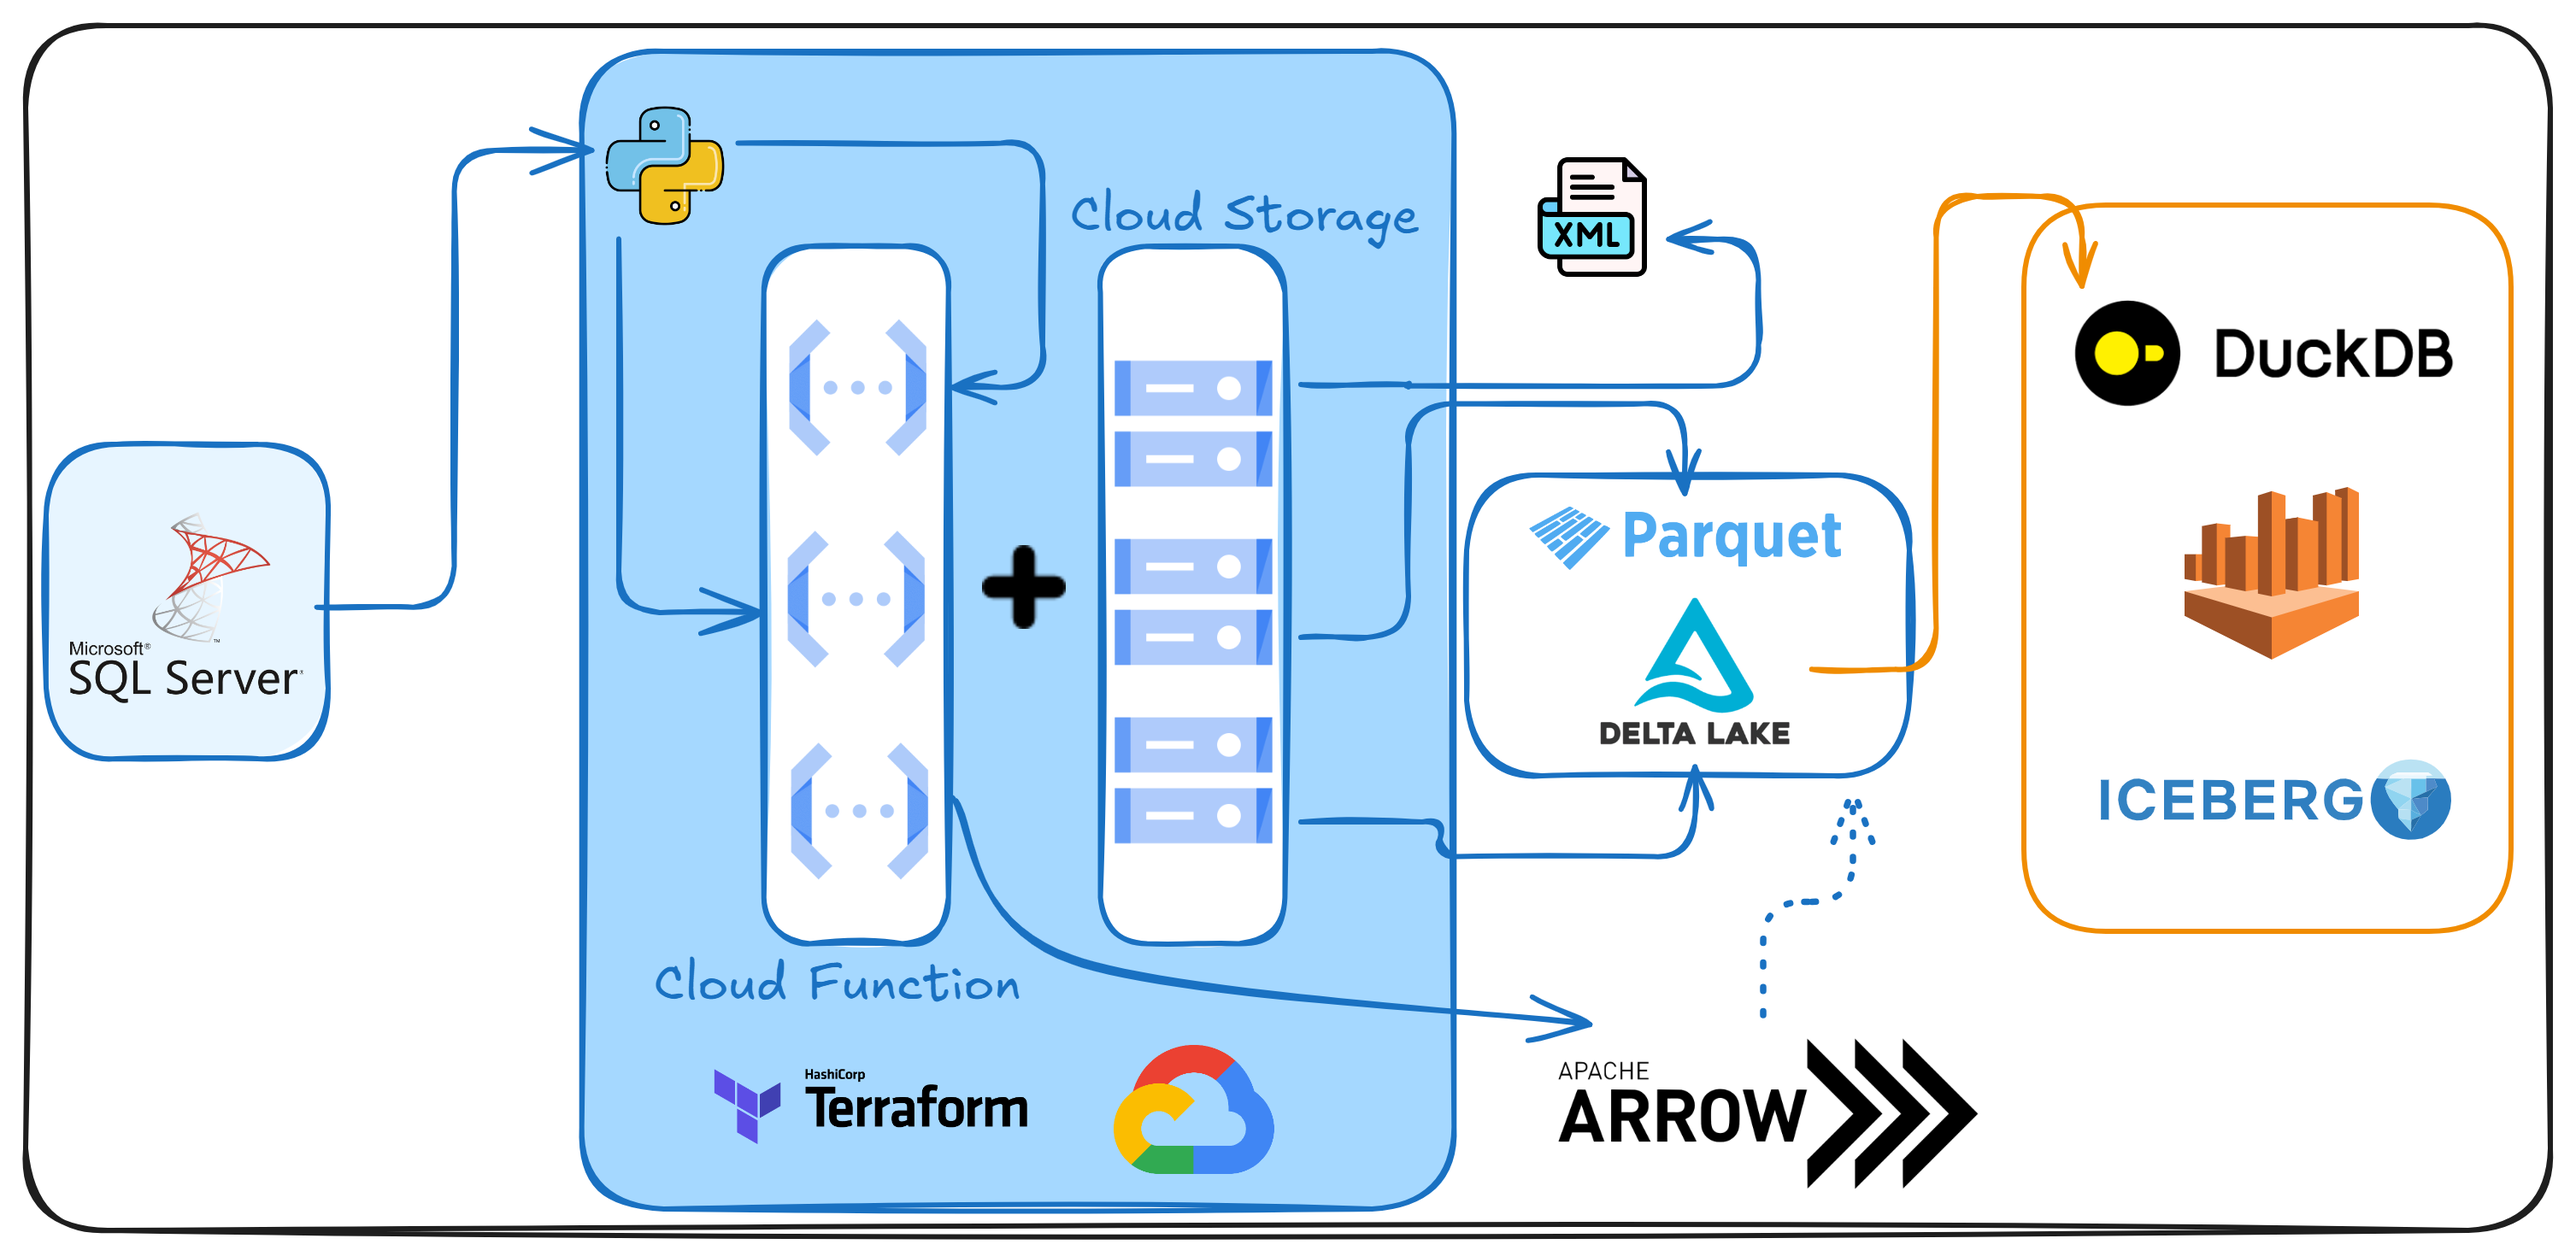
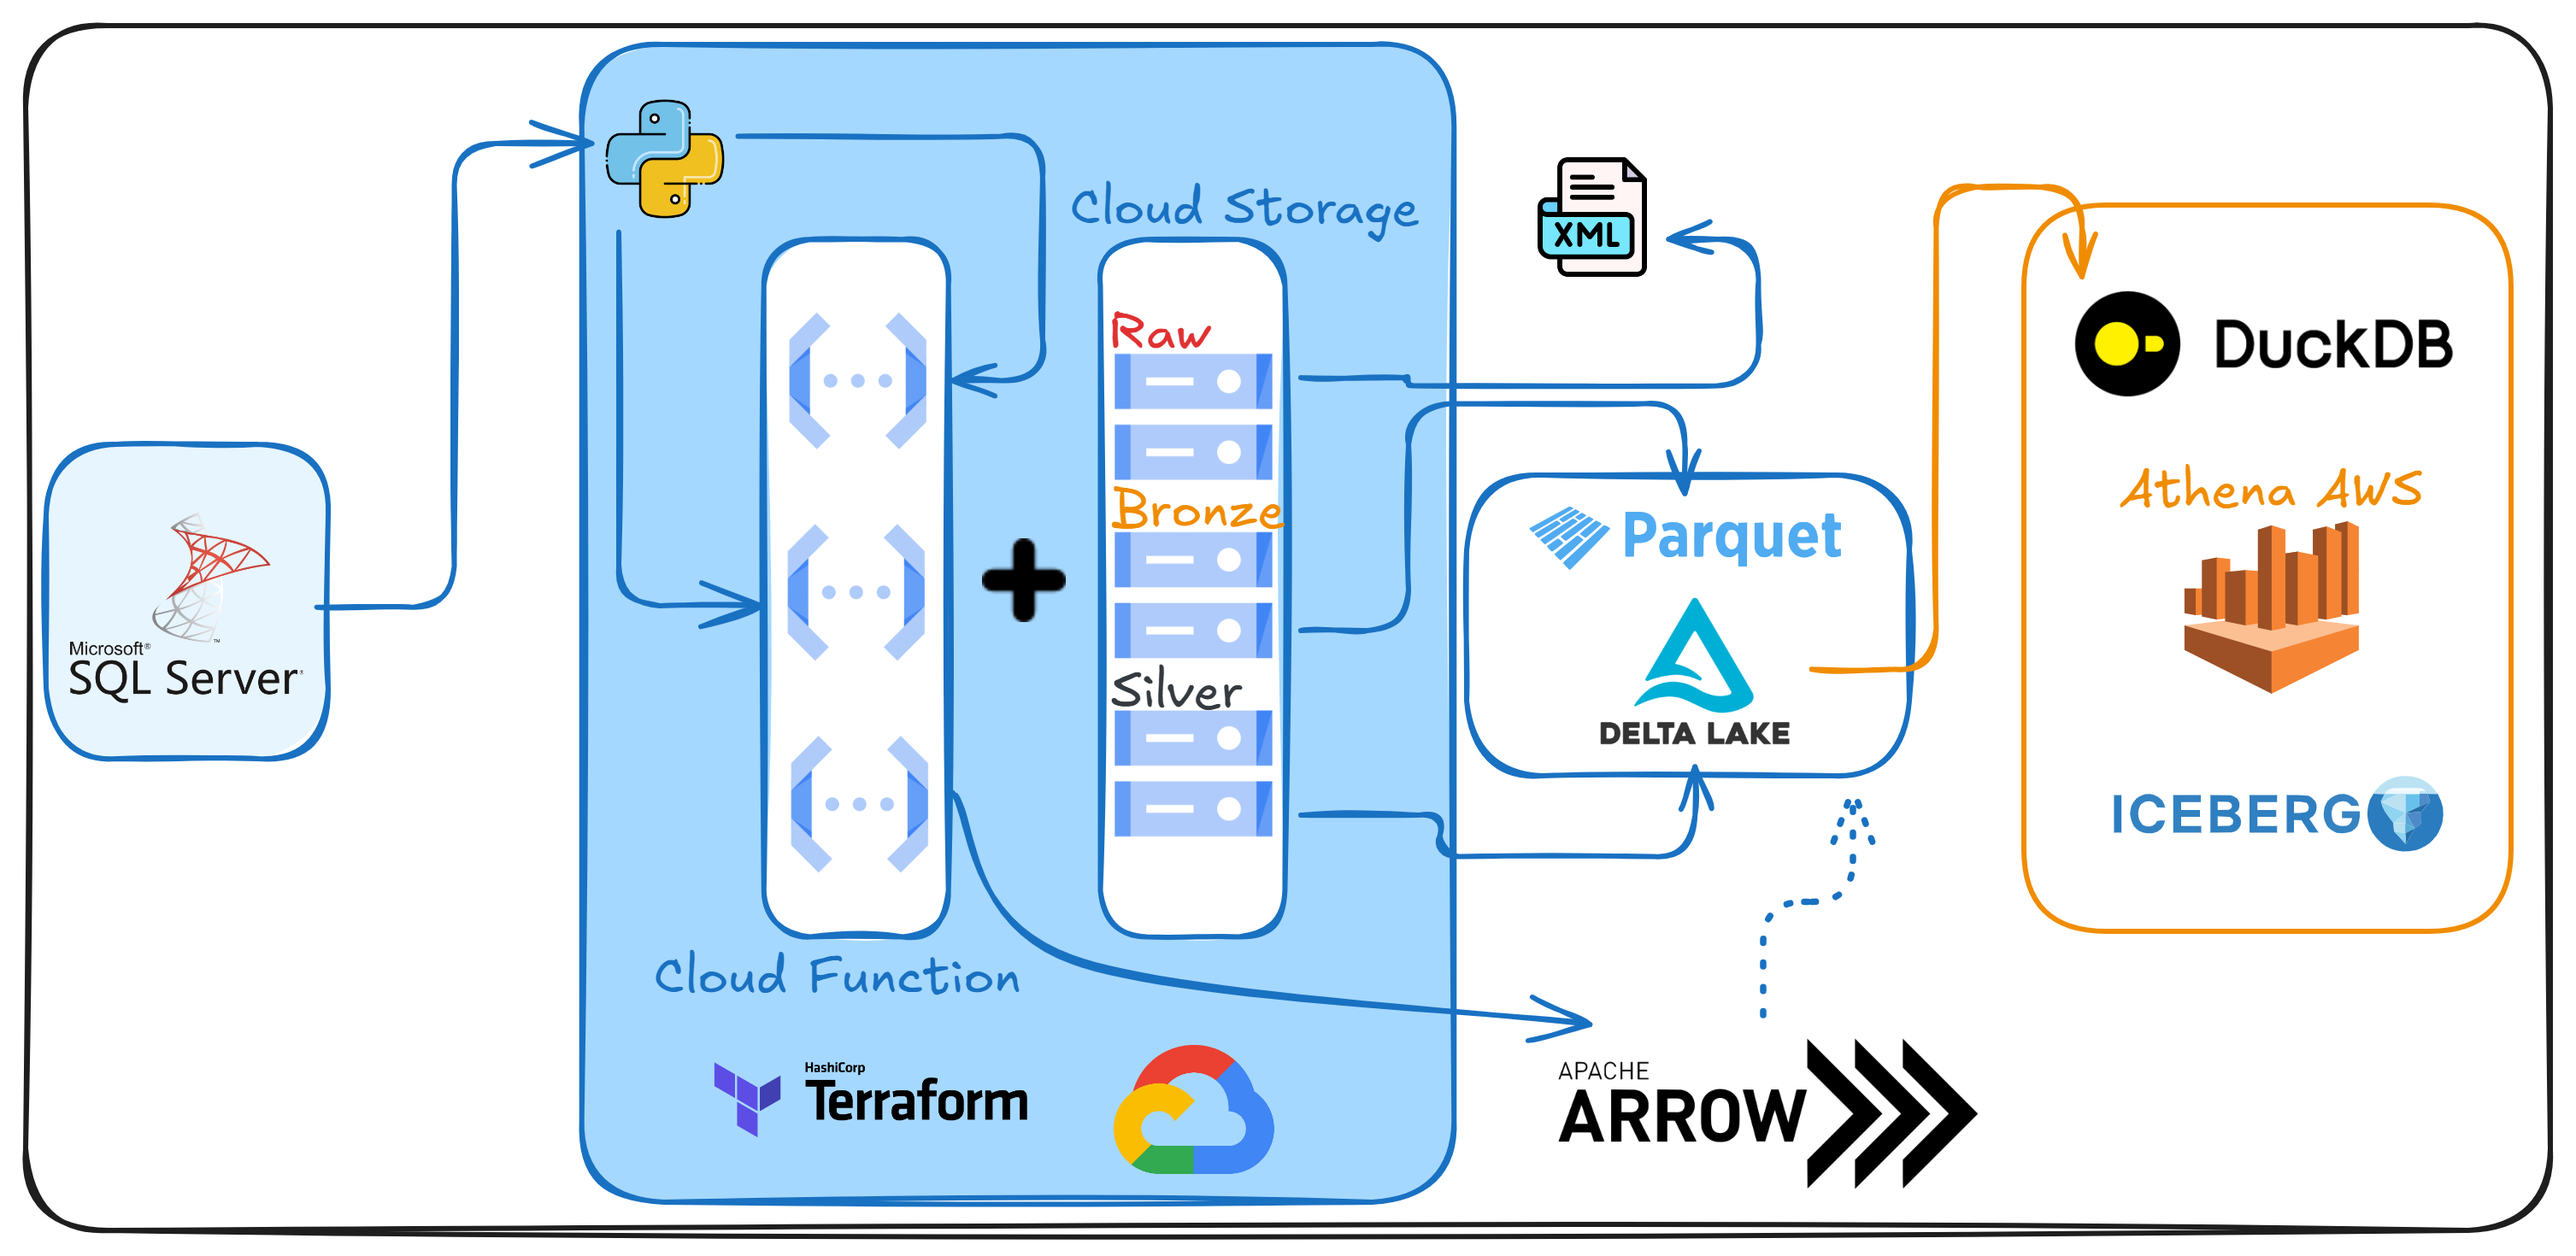
doc export

diff --git a/README.md b/README.md
@@ -1,32 +1,32 @@
 # Projeto de Exportação e Transformação de Dados de Nota Fiscal
 
-Este projeto automatiza o processo de exportação e transformação de dados de XML de notas fiscais para análise no AWS Athena. Toda a infraestrutura é provisionada com **Terraform**, e o pipeline de dados é implementado em **Python** utilizando as bibliotecas `pyodbc`, `deltalake`, `pyarrow`, `duckdb`, e uma biblioteca própria chamada `athena-mvsh`.
+Este projeto automatiza o processo de exportação e transformação de dados de XML de notas fiscais para análise no AWS Athena. Toda a infraestrutura do Google Cloud Platform é provisionada com **Terraform**, e o pipeline de dados é implementado em **Python** utilizando as bibliotecas `pyodbc`, `deltalake`, `pandas`, `pyarrow`, `duckdb`, e uma biblioteca própria chamada `athena-mvsh`.
 
-![Arquitetura do projeto que será construído](img/cloud.png)
+![Arquitetura do projeto](img/cloud.png)
 
 ## Arquitetura do Projeto
 
 1. **Camada Raw (GCS)**
    - **Objetivo**: Receber os arquivos XML de notas fiscais.
-   - **Processo**: Uma Google Cloud Function em Python é acionada quando um novo XML é enviado, carregando-o para um bucket GCS na camada raw e mantendo a estrutura original dos dados.
+   - **Processo**: Um script Python extrai os dados xml de um banco `SQL SERVER`, carregando-o para um bucket GCS na camada raw e mantendo a estrutura original dos dados.
 
 2. **Camada Bronze (GCS)**
    - **Objetivo**: Converter o XML em formato Parquet para otimizar leitura e armazenamento.
-   - **Processo**: Outra Google Cloud Function lê os arquivos XML da camada raw, extrai informações relevantes e converte para Parquet. O arquivo Parquet é então salvo na camada bronze.
+   - **Processo**: Uma Google Cloud Function lê os arquivos XML da camada raw, extrai informações relevantes e converte para Parquet. O arquivo Parquet é então salvo na camada bronze.
 
 3. **Camada Silver (Delta Lake no GCS)**
    - **Objetivo**: Estruturar os dados no formato Delta Lake para histórico e controle de versões.
-   - **Processo**: Uma terceira Google Cloud Function lê os arquivos Parquet da camada bronze e os escreve em um Delta Lake, na camada silver, permitindo manipulação de dados robusta.
+   - **Processo**: Uma segunda Google Cloud Function lê os arquivos Parquet da camada bronze e os escreve em um Delta Lake, na camada silver, permitindo manipulação de dados robusta.
 
 4. **Exportação para Athena (AWS)**
    - **Objetivo**: Disponibilizar os dados para consulta no AWS Athena em uma tabela Iceberg.
-   - **Processo**: Usando `pyarrow` e `duckdb`, o Delta Lake da camada silver é convertido para o formato compatível com Iceberg e transferido para o Athena, onde pode ser consultado diretamente. A biblioteca `athena-mvsh` simplifica as operações de consulta e manipulação no Athena.
+   - **Processo**: Usando `pyarrow` e `duckdb`, o Delta Lake da camada silver, também através de uma Google Cloud Function é convertido para o formato compatível com Iceberg e transferido para o Athena, onde pode ser consultado diretamente. A biblioteca `athena-mvsh` simplifica as operações de consulta e manipulação no Athena.
 
-## Estrutura de Arquivos e Funções
+## Estrutura de pastas pro Google Cloud Function
 
-- `raw_to_bronze.py`: Função para conversão de XML para Parquet.
-- `bronze_to_silver.py`: Função para organizar os dados Parquet no Delta Lake.
-- `silver_to_athena.py`: Função para exportar o Delta Lake para o AWS Athena.
+- `cloud_bronze/`: Função para conversão de XML para Parquet.
+- `cloud_silver/`: Função para organizar os dados Parquet no Delta Lake.
+- `cloud_gold/`: Função para exportar o Delta Lake para o AWS Athena.
 
 ## Infraestrutura com Terraform
 
@@ -34,10 +34,15 @@ Toda a infraestrutura, incluindo os buckets GCS, as Cloud Functions e permissõe
 
 - Buckets do GCS para as camadas raw, bronze e silver
 - Cloud Functions com acionadores para cada etapa do processo
-- Permissões de interação com o GCS, acesso ao Athena e ao AWS Glue
+- Permissões de interação com o GCS
 
 Para implementar a infraestrutura, basta rodar os comandos do Terraform:
 
 ```bash
-terraform init
-terraform apply
+cd terraform
+
+terraform init --upgrade
+terraform fmt
+terraform validate
+terraform apply -auto-approve
+```
